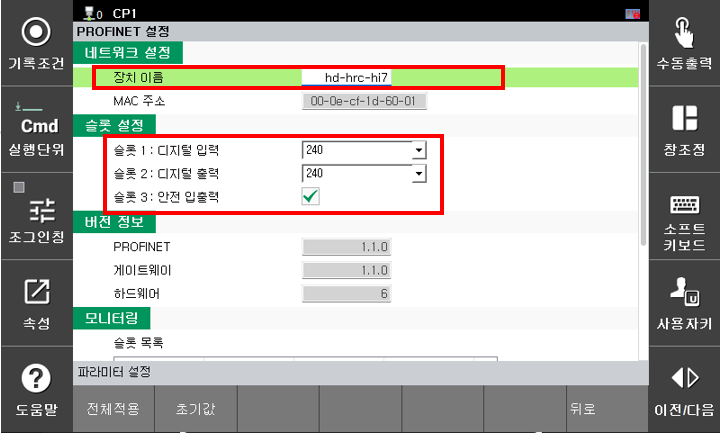
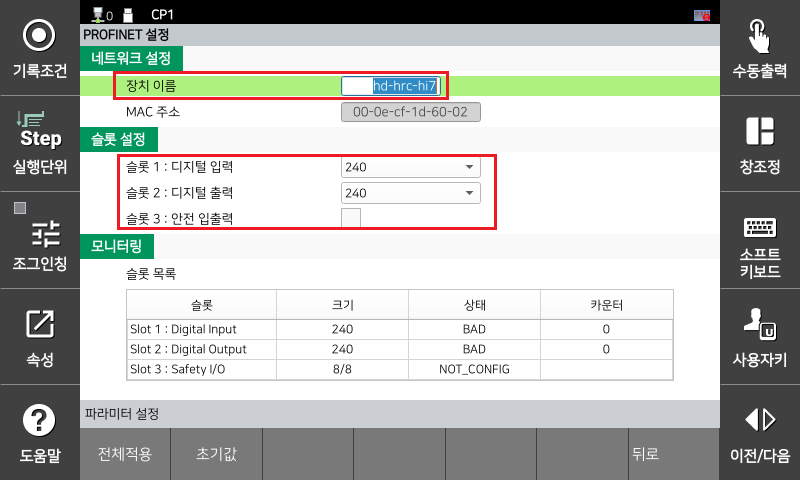
profinet 설정 그림 변경

diff --git a/4-pnio/1-pnio.md b/4-pnio/1-pnio.md
@@ -97,7 +97,7 @@
 ![](../_assets/4-pnio/5_1_Safety_Ladder2.png)
 
 **3.5.2 TP 화면**
-메뉴에서 시스템 -> 안전시스템 -> 모니터링 -> PROFINET 상태로 이동한다.<br>
+메뉴에서 시스템 -> 제어 파라미터 -> 산업용 통신 -> PROFINET 설정으로 이동한다.<br>
 ![](../_assets/4-pnio/5_2_pnio_status.png)
 - 각 슬롯의 상태 정보를 확인
 - Counter가 지속 증가하는지 확인
